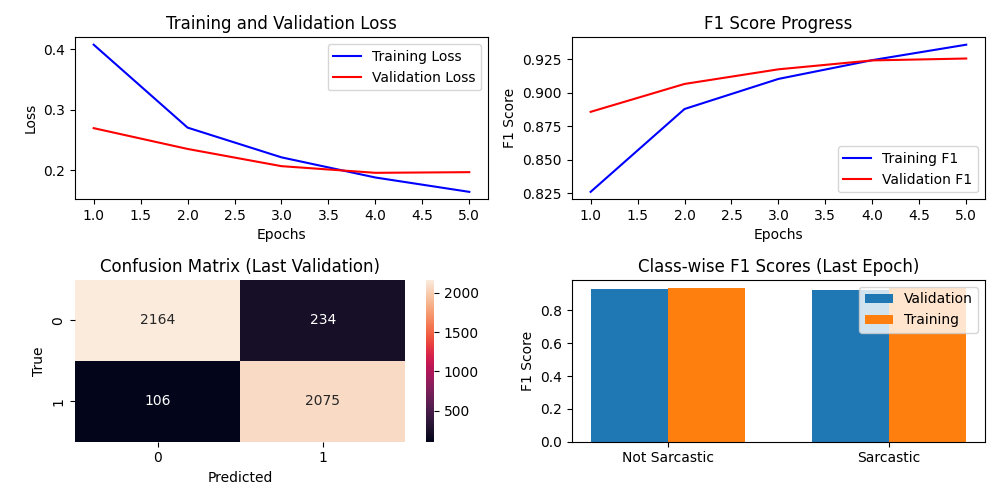
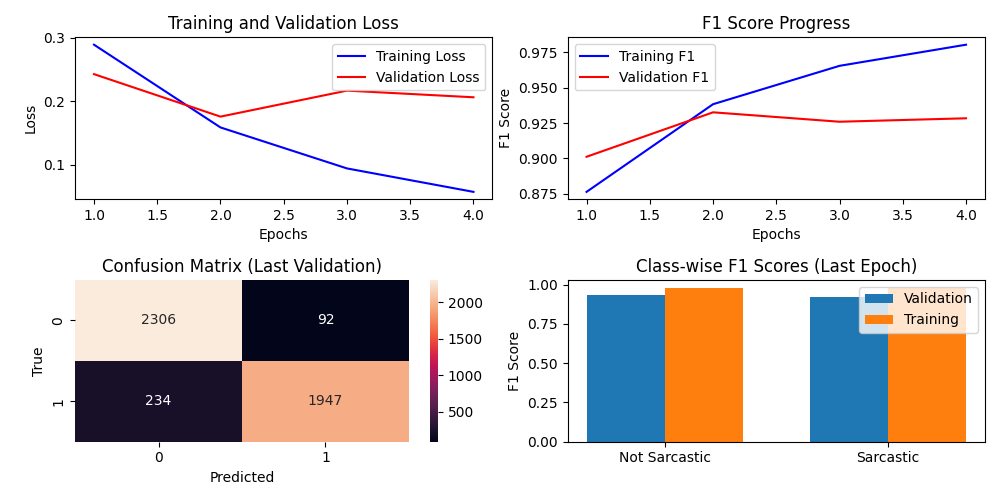
BERT_BiLSTM almost finished

diff --git a/utils/config.py b/utils/config.py
@@ -15,17 +15,17 @@ class Config:
     BERT_BEST_MODEL_PATH = os.path.join(PROJECT_ROOT, "checkpoints", "best_bert_model.pt")
     BERT_MODEL_NAME = 'bert-base-uncased'
     BERT_MAX_LENGTH = 128    
-    LSTM_HIDDEN_SIZE = 384    
-    INTERMEDIATE_SIZE = 192  
+    LSTM_HIDDEN_SIZE = 256    
+    INTERMEDIATE_SIZE = 256  
     TRAIN_VAL_SIZE = 0.80
     VAL_FROM_TRAIN = 0.20
     
     # Training hyperparameters
     NUM_EPOCHS = 5
     BATCH_SIZE = 16
-    LEARNING_RATE = 8e-6
-    DROPOUT_RATE = 0.45
-    WEIGHT_DECAY = 0.025
+    LEARNING_RATE = 4.20e-5
+    DROPOUT_RATE = 0.269
+    WEIGHT_DECAY = 0.0403
 
     # Plotting parameters
     FIGURE_SIZE = (10, 5)

diff --git a/models/bert_lstm_model.py b/models/bert_lstm_model.py
@@ -45,7 +45,7 @@ class BertLSTMModel(nn.Module):
         # Freeze BERT layers
         for param in self.bert.embeddings.parameters():
             param.requires_grad = False
-        for i in range(8):
+        for i in range(6):
             for param in self.bert.encoder.layer[i].parameters():
               param.requires_grad = False
             

diff --git a/utils/model_tuner.py b/utils/model_tuner.py
@@ -147,7 +147,7 @@ def objective(trial):
     
     return best_val_loss
 
-def find_best_hyperparameters(n_trials=20):
+def find_best_hyperparameters(n_trials=6):
     print(f"\nRunning {n_trials} trials...")
     print("=" * 50)
     

diff --git a/README.md b/README.md
@@ -1,149 +1,140 @@
+```markdown
 # Sarcasm Detection in Social Media
 
-This project implements deep learning and classical machine learning methods to detect sarcasm in social media text using BERT-BiLSTM and traditional approaches.
+This project explores both classical and deep-learning methods for detecting sarcasm in social-media text, focusing on a hybrid **BERT-BiLSTM** architecture that combines pretrained contextual embeddings with sequential modeling. On the News Headlines dataset (26 709 examples from The Onion vs. mainstream sources), our best model achieves **93.0 % test accuracy** and a **0.93 macro-F1** score, outperforming prior hybrid CNN-LSTM baselines (89.7 % accuracy) :contentReference[oaicite:0]{index=0}.
 
 ## Project Structure
 
 ```
+
 ├── data/
-│   ├── processed/
-│   │   └── preprocessed_dataset.csv
-│   └── raw/
-│       └── dataset_unificato.csv
+│   ├── raw/ … original JSON headlines
+│   └── processed/
+│       └── preprocessed\_news.csv  
+│           
 ├── models/
-│   ├── bert_lstm_model.py      # BERT-BiLSTM implementation
-│   └── classical_methods.py
+│   ├── bert\_lstm\_model.py     … BERT-BiLSTM implementation
+│   └── classical\_methods.py   … TF-IDF + Logistic Regression / SVM
 ├── utils/
-│   ├── config.py              # Configuration settings
-│   ├── dataset_loader.py      # Data loading and splitting
-│   ├── evaluation_utils.py    # Evaluation metrics and visualization
-│   ├── preprocess_news.py     # News dataset preprocessing
-│   ├── test_evaluation.py     # Model testing utilities
-│   ├── model_tuner.py        # Hyperparameter optimization
-│   ├── preprocessing.py       # Text preprocessing utilities
-│   ├── analysis_data.py      # Training analysis and plotting
-│   ├── data_visualization.py # Dataset visualization
-│   └── word_cloud.py         # Word cloud generation
-├── main.py
-└── requirements.txt
-```
+│   ├── config.py              … all hyperparameters, paths, and device settings
+│   ├── dataset\_loader.py      … stratified train/val/test split
+│   ├── preprocessing.py       … text cleaning, emoji demojization, URL masking
+│   ├── preprocess\_news.py     … news-specific normalization
+│   ├── model\_tuner.py         … Optuna hyperparameter search
+│   ├── evaluation\_utils.py    … metrics, classification reports, confusion matrices
+│   ├── analysis\_data.py       … loss/F1 plotting (training curves)
+│   ├── data\_visualization.py  … class distribution and exploratory plots
+│   └── word\_cloud.py          … word-cloud generation
+├── main.py                    … end-to-end training and evaluation script
+└── requirements.txt           … exact versions of PyTorch, Transformers, scikit-learn, spaCy, Optuna, etc.
+
+````
+
+## Dataset
+
+We use the **News Headlines** corpus (Kaggle), containing 26 709 JSON‐formatted headlines labeled `sarc` or `notsarc`. After preprocessing and splitting, we have 18 316 training, 4 579 validation, and 5 724 test examples :contentReference[oaicite:2]{index=2}.
+
+## Preprocessing
+
+- **Text cleaning**: Unicode normalization, lowercase (for uncased BERT), removal/masking of URLs and user mentions, conversion of emojis to text, contraction expansion, stripping special characters.  
+- **Classical pipeline**: Stop-word removal, lemmatization, TF-IDF vectorization (unigrams + bigrams, max_features=10 000).  
+- **Transformer pipeline**: BERT tokenization (max_length=128), padding/truncation, attention masks.
 
 ## Models
 
-### BERT-BiLSTM Architecture
+### Classical Baselines
 
-- Uses BERT-base-uncased as the encoder for contextual embeddings
-- Enhanced with a Bidirectional LSTM (BiLSTM) layer for sequence processing
-  - Processes sequences in both forward and backward directions
-  - Captures contextual dependencies from both past and future tokens
-- Includes intermediate linear layer for feature transformation
-- Employs dropout for regularization and overfitting prevention
-- Features mixed precision training for computational efficiency
-- Uses gradient checkpointing to optimize memory usage
+- **Logistic Regression** and **Linear SVM** on TF-IDF features  
+- Hyperparameter tuning via 3-fold `GridSearchCV` optimizing macro-F1  
+- Balanced class weights to mitigate skew  
 
-### Classical Methods
+### BERT-BiLSTM Hybrid
 
-- Logistic Regression with TF-IDF features
-- Support Vector Machine (SVM) with TF-IDF features
-- Includes grid search for hyperparameter optimization
-- Balanced class weights for handling imbalanced data
+- **BERT-base-uncased** with first six layers frozen for efficiency  
+- **Bidirectional LSTM** (hidden_size=256) on top of BERT’s last hidden states  
+- **Intermediate linear layer** (256 units) + ReLU + dropout (0.269)  
+- Final sigmoid output for binary classification  
+- **Loss**: BCEWithLogitsLoss; **Optimizer**: AdamW (lr=4.20×10⁻⁵, weight_decay=0.0403)  
+- **Early stopping** (patience=1) over 5 epochs; best model saved by lowest validation loss :contentReference[oaicite:3]{index=3}.
 
-## Features
+## Hyperparameter Optimization
 
-- Comprehensive evaluation metrics
-- Confusion matrix visualization
-- Word cloud generation for data analysis
-- Training progress visualization
-- Dataset distribution analysis
-- Hyperparameter optimization
+We ran **6 Optuna trials** (≈ 7 h) over this search space:
+
+| Hyperparameter       | Search Space                      |
+|:---------------------|:----------------------------------|
+| learning_rate        | [1e−6, 1e−4] (log-uniform)        |
+| batch_size           | {8, 16, 32}                       |
+| lstm_hidden_size     | {256, 384, 512}                   |
+| intermediate_size    | {128, 256}                        |
+| dropout_rate         | [0.2, 0.5]                        |
+| weight_decay         | [0.01, 0.05]                      |
+| frozen_layers        | {6, 7, 8, 9}                      |
+
+The best configuration (val loss = 0.1798) was:  
+- **lr** = 4.20×10⁻⁵  
+- **batch_size** = 16  
+- **hidden_size** = 256  
+- **intermediate_size** = 256  
+- **dropout** = 0.269  
+- **weight_decay** = 0.0403  
+- **frozen_layers** = 6 :contentReference[oaicite:4]{index=4}
+
+## Performance
+
+### Validation (Epoch 2)
+
+- **Train loss** ↓ from 0.2887 → 0.1585   
+- **Val loss** ↓ to 0.1756 (best)  
+- **Macro-F1** → 0.9326  
+- Precision/Recall for both classes ≈ 0.93 :contentReference[oaicite:5]{index=5}
+
+### Test
+
+| Metric        | Not Sarc. | Sarc. | Overall |
+|:--------------|:---------:|:-----:|:-------:|
+| Precision     | 0.93      | 0.93  |         |
+| Recall        | 0.94      | 0.92  |         |
+| **F1-Score**  | 0.93      | 0.92  | **0.93**|
+| **Accuracy**  |           |       | **0.93**| :contentReference[oaicite:6]{index=6}
+
+### Comparison
+
+| Model                              | Test Accuracy |
+|:-----------------------------------|:--------------|
+| Misra & Arora (CNN-LSTM hybrid)    | 89.7 %        |
+| **This work (BERT-BiLSTM)**        | **93.0 %**    :contentReference[oaicite:7]{index=7}
 
 ## Usage
 
-1. **Data Preprocessing**:
+1. **Install dependencies**  
+   ```bash
+   pip install -r requirements.txt
+   python -m spacy download en_core_web_sm
+````
+
+2. **Preprocess data**
 
    ```bash
-   # Preprocess the news headlines dataset
    python utils/preprocess_news.py
-
-   # Run text preprocessing
    python utils/preprocessing.py
    ```
-
-2. **Data Analysis and Visualization**:
+3. **Visualize / Analyze**
 
    ```bash
-   # Generate word clouds for analysis
    python utils/word_cloud.py
-
-   # Visualize dataset distribution
    python utils/data_visualization.py
    ```
-
-3. **Model Tuning**:
+4. **Hyperparameter tuning**
 
    ```bash
-   # Run hyperparameter optimization for BERT-BiLSTM
    python utils/model_tuner.py
    ```
-
-4. **Training Models**:
+5. **Train & evaluate**
 
    ```bash
-   # Train both BERT-BiLSTM and classical models
    python main.py
-   ```
-
-5. **Model Evaluation**:
-   ```bash
-   # Evaluate BERT-BiLSTM model
    python -m utils.test_evaluation
    ```
 
-## Utility Files Description
 
-- **config.py**: Central configuration file containing model parameters, paths, and training settings
-- **dataset_loader.py**: Handles data loading, splitting into train/val/test sets, and preprocessing
-- **evaluation_utils.py**: Contains functions for model evaluation, metrics calculation, and visualization
-- **preprocess_news.py**: Specific preprocessing for news headlines dataset
-- **test_evaluation.py**: Comprehensive model evaluation on test set
-- **model_tuner.py**: Implements Optuna-based hyperparameter optimization
-- **preprocessing.py**: Text preprocessing utilities including cleaning and normalization
-- **analysis_data.py**: Training progress visualization and analysis tools
-- **data_visualization.py**: Dataset statistics and distribution visualization
-- **word_cloud.py**: Word cloud generation for text analysis
-
-## Model Performance Metrics
-
-Models are evaluated using:
-
-- Accuracy
-- Precision
-- Recall
-- F1-score
-- Confusion Matrix
-
-Results are saved and visualized for both training and validation phases.
-
-## Configuration
-
-Key configurations in `utils/config.py`:
-
-- Model architecture parameters (BERT-BiLSTM settings)
-- Training hyperparameters
-- Data paths
-- GPU/CPU settings
-- Visualization settings
-
-## Requirements
-
-- PyTorch
-- Transformers
-- scikit-learn
-- pandas
-- numpy
-- tqdm
-- matplotlib
-- seaborn
-- wordcloud
-- optuna
-- spacy
